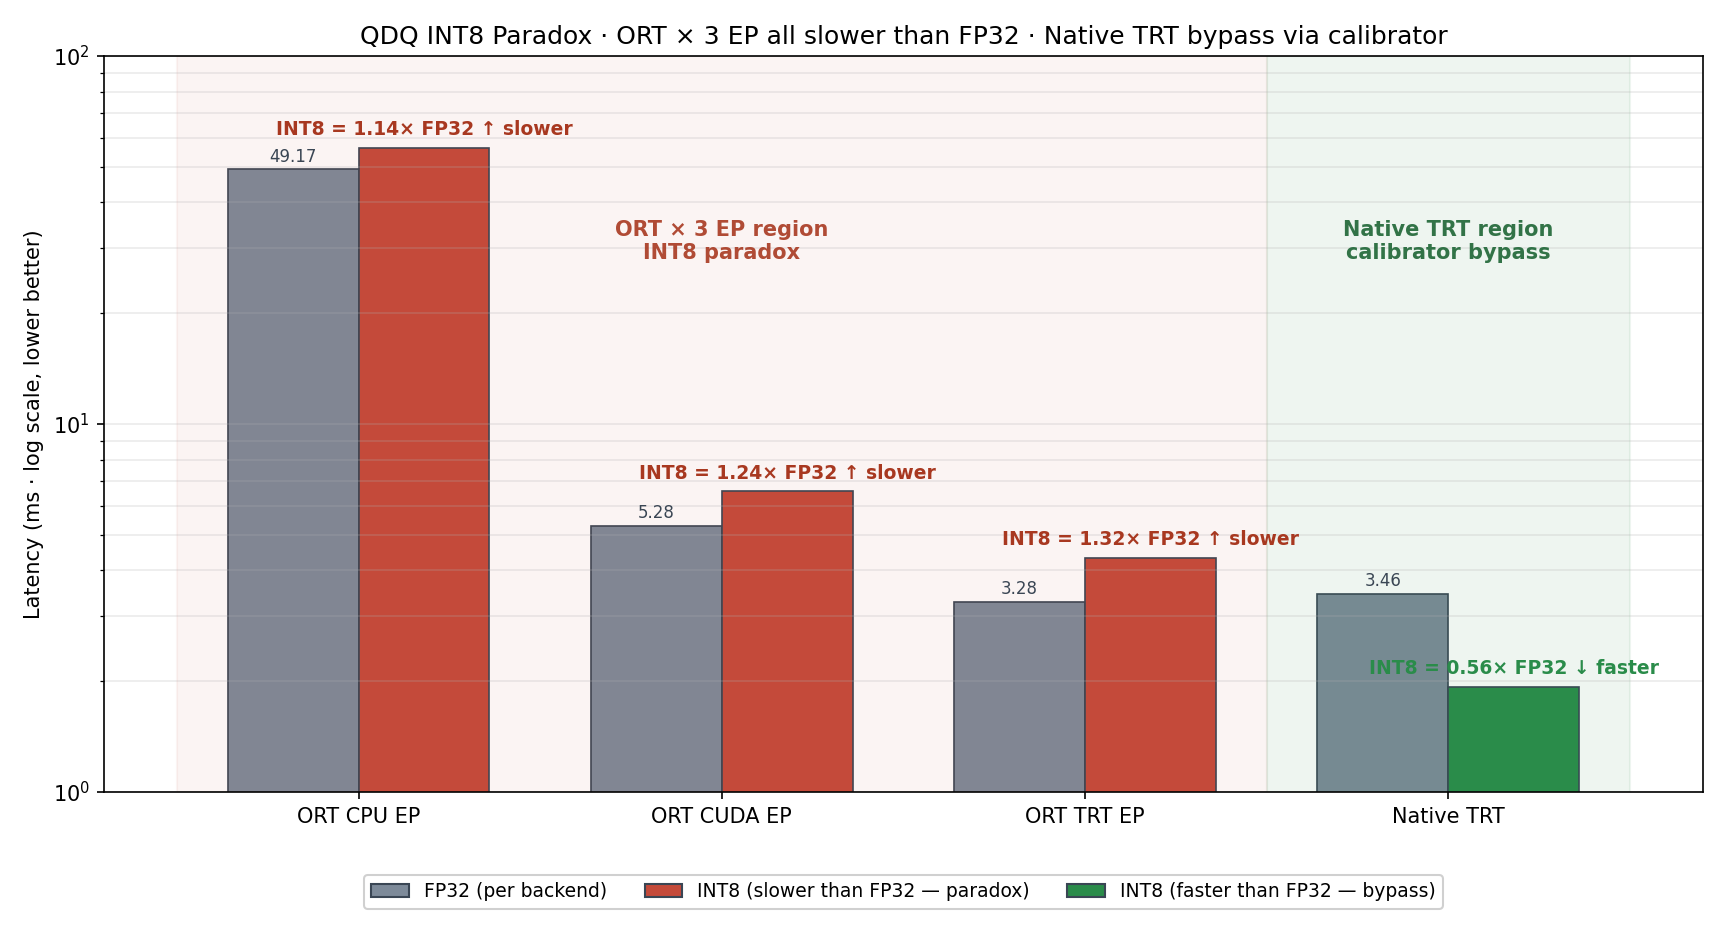
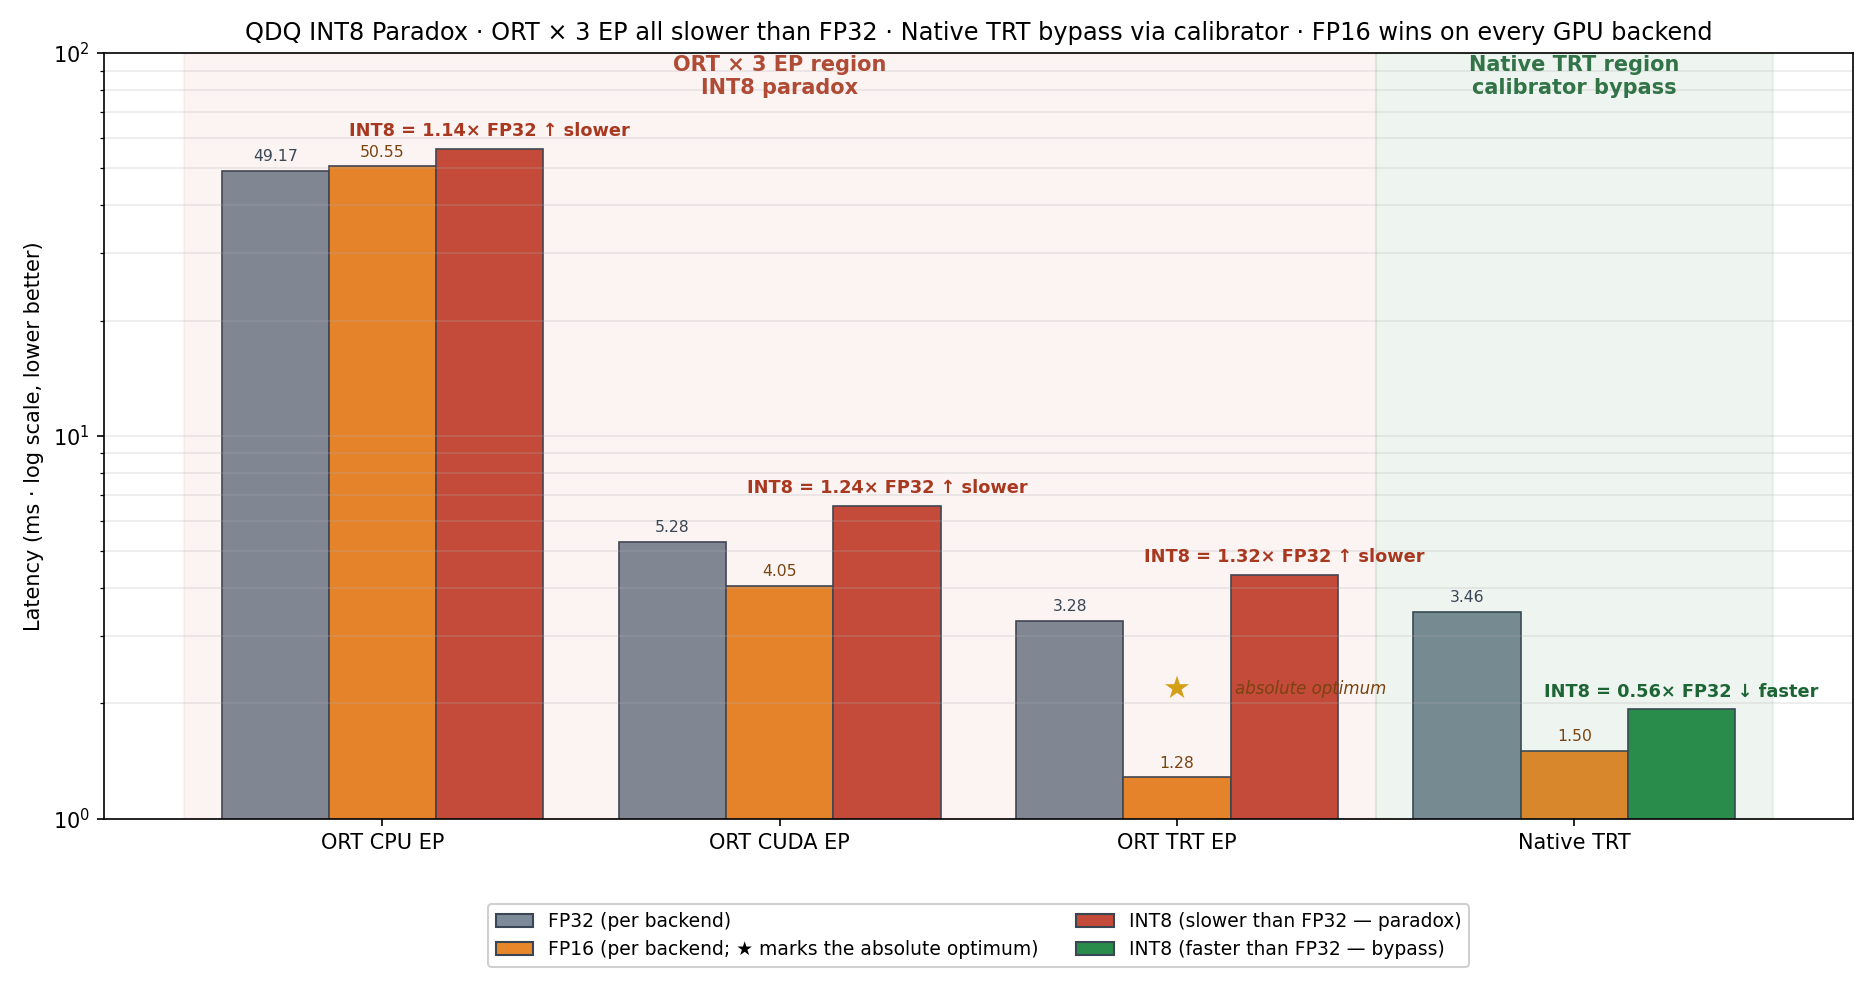
§3.3 chart: add FP16 across all 4 backends; star-mark absolute optimum (FP16 / ORT TRT EP)

diff --git a/src/deployment/qdq_paradox_chart.py b/src/deployment/qdq_paradox_chart.py
@@ -1,9 +1,12 @@
-"""Generate the QDQ INT8 paradox bar chart for Page 3 Card 1.
+"""Generate the QDQ INT8 paradox bar chart for §3.3.
 
 Plots, for each backend (ORT CPU EP / ORT CUDA EP / ORT TRT EP / Native TRT),
-the FP32 vs INT8 latency. INT8 bars are colored red where they are SLOWER than
-the same backend's FP32 (the paradox), green where INT8 finally wins (Native TRT
-calibrator path). Log Y-axis to fit CPU's ~50 ms next to GPU's ~1-7 ms range.
+FP32 / FP16 / INT8 latency side-by-side. INT8 bars are colored red where they
+are SLOWER than the same backend's FP32 (the paradox), green where INT8 finally
+wins (Native TRT calibrator path). FP16 is included to give the full GPU-side
+picture — on this consumer Ampere GPU, FP16 is actually the optimum across all
+GPU backends (see §3.4 roofline). Log Y-axis fits CPU's ~50 ms next to GPU's
+~1-7 ms range.
 
 Run example::
 
@@ -26,11 +29,11 @@ import numpy as np
 # Source: results/onnx_benchmark/edsr_200ep_full/benchmark.csv
 #       + results/trt_benchmark/edsr_200ep/benchmark.csv
 DATA = [
-    # (backend label, FP32 ms, INT8 ms)
-    ("ORT CPU EP",   49.17, 56.25),
-    ("ORT CUDA EP",   5.28,  6.57),
-    ("ORT TRT EP",    3.28,  4.33),
-    ("Native TRT",    3.46,  1.93),
+    # (backend label, FP32 ms, FP16 ms, INT8 ms)
+    ("ORT CPU EP",   49.17, 50.55, 56.25),
+    ("ORT CUDA EP",   5.28,  4.05,  6.57),
+    ("ORT TRT EP",    3.28,  1.28,  4.33),
+    ("Native TRT",    3.46,  1.50,  1.93),
 ]
 
 
@@ -41,25 +44,33 @@ def main() -> None:
 
     backends = [d[0] for d in DATA]
     fp32 = np.array([d[1] for d in DATA])
-    int8 = np.array([d[2] for d in DATA])
-    ratios = int8 / fp32
+    fp16 = np.array([d[2] for d in DATA])
+    int8 = np.array([d[3] for d in DATA])
+    int8_ratios = int8 / fp32
 
     x = np.arange(len(backends))
-    width = 0.36
+    width = 0.27
 
-    fig, ax = plt.subplots(figsize=(11.5, 6.2))
+    fig, ax = plt.subplots(figsize=(12.5, 6.6))
 
-    # FP32 bars (neutral grey)
-    fp32_bars = ax.bar(
-        x - width/2, fp32, width,
-        label="FP32 baseline (this backend)",
+    # FP32 bars (neutral grey, leftmost in each group)
+    ax.bar(
+        x - width, fp32, width,
         color="#7d8a99", edgecolor="#3a4654", linewidth=0.8,
+        label="FP32 (per backend)",
+    )
+
+    # FP16 bars (orange, matching §3.2 PREC_COLOR convention; middle)
+    ax.bar(
+        x, fp16, width,
+        color="#e8872a", edgecolor="#3a4654", linewidth=0.8,
+        label="FP16 (per backend — GPU optimum on this HW)",
     )
 
     # INT8 bars: red if slower than FP32 (paradox), green if faster (bypass)
-    int8_colors = ["#c44a3a" if r > 1 else "#2a8c4a" for r in ratios]
-    int8_bars = ax.bar(
-        x + width/2, int8, width,
+    int8_colors = ["#c44a3a" if r > 1 else "#2a8c4a" for r in int8_ratios]
+    ax.bar(
+        x + width, int8, width,
         color=int8_colors, edgecolor="#3a4654", linewidth=0.8,
     )
 
@@ -67,52 +78,68 @@ def main() -> None:
     ax.set_yscale("log")
     ax.set_ylim(1, 100)
 
-    # Annotate INT8 bars with ratio + arrow direction
-    for i, (f, t, r) in enumerate(zip(fp32, int8, ratios)):
+    # Annotate INT8 bars with ratio + arrow direction (the paradox story)
+    for i, (t, r) in enumerate(zip(int8, int8_ratios)):
         if r > 1:
             label = f"INT8 = {r:.2f}× FP32 ↑ slower"
             color = "#a83820"
         else:
             label = f"INT8 = {r:.2f}× FP32 ↓ faster"
-            color = "#2a8c4a"
+            color = "#1d6535"
         ax.annotate(
             label,
-            xy=(x[i] + width/2, t),
+            xy=(x[i] + width, t),
             xytext=(0, 6),
             textcoords="offset points",
-            ha="center", fontsize=9, color=color, weight="bold",
+            ha="center", fontsize=8.5, color=color, weight="bold",
         )
+
+    # Numerical labels on FP32 / FP16 bars
+    for i in range(len(backends)):
+        ax.text(x[i] - width, fp32[i] * 1.06, f"{fp32[i]:.2f}",
+                ha="center", fontsize=7.5, color="#3a4654")
+        ax.text(x[i], fp16[i] * 1.06, f"{fp16[i]:.2f}",
+                ha="center", fontsize=7.5, color="#7a4310")
+
+    # Star-mark the absolute optimum (FP16 / ORT TRT EP at 1.28 ms)
+    # Placed above the FP16 bar's numerical label so it doesn't clip on log scale.
+    opt_idx = next(i for i, b in enumerate(backends) if b == "ORT TRT EP")
+    ax.text(x[opt_idx], fp16[opt_idx] * 1.7, "★",
+            ha="center", va="center", fontsize=15, color="#d4a017", zorder=5)
+    ax.annotate(
+        "absolute optimum",
+        xy=(x[opt_idx], fp16[opt_idx] * 1.7),
+        xytext=(28, 0), textcoords="offset points",
+        ha="left", va="center",
+        fontsize=8, color="#7a4310", style="italic",
+    )
 
     # Background shading: ORT × 3 EP paradox region vs Native TRT bypass
     ax.axvspan(-0.5, 2.5, color="#c44a3a", alpha=0.06)
     ax.axvspan( 2.5, 3.5, color="#2a8c4a", alpha=0.08)
-    # Region labels: shifted down, away from y-axis top where legend sits
-    ax.text(1.0, 28, "ORT × 3 EP region\nINT8 paradox",
+    # Region labels: top of plot, away from data
+    ax.text(1.0, 78, "ORT × 3 EP region\nINT8 paradox",
             color="#a83820", fontsize=10, ha="center", weight="bold", alpha=0.9)
-    ax.text(3.0, 28, "Native TRT region\ncalibrator bypass",
+    ax.text(3.0, 78, "Native TRT region\ncalibrator bypass",
             color="#1d6535", fontsize=10, ha="center", weight="bold", alpha=0.9)
-
-    # Numerical labels on top of FP32 bars (small, grey)
-    for i, f in enumerate(fp32):
-        ax.text(x[i] - width/2, f * 1.05, f"{f:.2f}",
-                ha="center", fontsize=8, color="#3a4654")
 
     # Legend (custom, since INT8 bars have mixed colors)
     from matplotlib.patches import Patch
     legend_handles = [
         Patch(facecolor="#7d8a99", edgecolor="#3a4654", label="FP32 (per backend)"),
+        Patch(facecolor="#e8872a", edgecolor="#3a4654", label="FP16 (per backend; ★ marks the absolute optimum)"),
         Patch(facecolor="#c44a3a", edgecolor="#3a4654", label="INT8 (slower than FP32 — paradox)"),
         Patch(facecolor="#2a8c4a", edgecolor="#3a4654", label="INT8 (faster than FP32 — bypass)"),
     ]
     ax.legend(handles=legend_handles, loc="upper center",
-              bbox_to_anchor=(0.5, -0.10), ncol=3, fontsize=9, framealpha=0.92)
+              bbox_to_anchor=(0.5, -0.10), ncol=2, fontsize=9, framealpha=0.92)
 
     ax.set_xticks(x)
     ax.set_xticklabels(backends, fontsize=10)
     ax.set_ylabel("Latency (ms · log scale, lower better)")
     ax.set_title(
-        "QDQ INT8 Paradox · ORT × 3 EP all slower than FP32 · Native TRT bypass via calibrator",
-        fontsize=12,
+        "QDQ INT8 Paradox · ORT × 3 EP all slower than FP32 · Native TRT bypass via calibrator · FP16 wins on every GPU backend",
+        fontsize=11.5,
     )
     ax.grid(True, axis="y", which="both", alpha=0.25)
 

diff --git a/README.md b/README.md
@@ -349,8 +349,8 @@ python -m src.deployment.benchmark_onnx \
 
 INT8 should be faster than FP16: fewer bits, smaller engine, dedicated INT8 tensor cores on Ampere. The 4.33 ms in §3.2 is anomalous. Root cause: `onnxruntime.quantization.quantize_static` produces QDQ ONNX with `INT32` bias `DequantizeLinear` nodes; TensorRT 10's ONNX parser rejects those, so ORT TRT EP cannot fuse the graph and falls back to a non-fused path (Q/DQ ops on CPU, conv on GPU FP32, with Memcpy nodes between). The "INT8 model" effectively runs as decorated FP32.
 
-![ORT × 3 EP INT8 paradox vs Native TRT rescue](results/qdq_paradox_chart.png)
-*FP32 (gray) vs INT8 (red/green) latency across four backends. **Red region (ORT × 3 EP)**: INT8 is 1.14×–1.32× *slower* than FP32 — the QDQ fusion failure. **Green region (Native TRT)**: INT8 is 0.56× FP32, i.e. 1.8× faster — the calibrator-based path bypasses QDQ entirely.*
+![ORT × 3 EP INT8 paradox vs Native TRT rescue, with FP16 reference](results/qdq_paradox_chart.png)
+*FP32 (grey) / FP16 (orange) / INT8 (red where slower than FP32 = paradox, green where faster = bypass) across four backends; log Y-scale. **Red region (ORT × 3 EP)**: INT8 is 1.14×–1.32× *slower* than FP32 — the QDQ fusion failure. **Green region (Native TRT)**: INT8 is 0.56× FP32 (1.8× faster) — the calibrator path bypasses QDQ entirely. **FP16 wins on every GPU backend** (including Native TRT, where 1.50 ms beats INT8's 1.93 ms); ★ marks the absolute optimum (FP16 / ORT TRT EP at 1.28 ms). The "INT8 rescued but FP16 still wins on consumer Ampere" reading is the §3.4 roofline conclusion visualized — see §3.4 for the tensor-core utilization mechanism.*
 
 **Native TRT rescue path** — bypass QDQ via the TensorRT Python API + `IInt8EntropyCalibrator2` on 64 val patches:
 